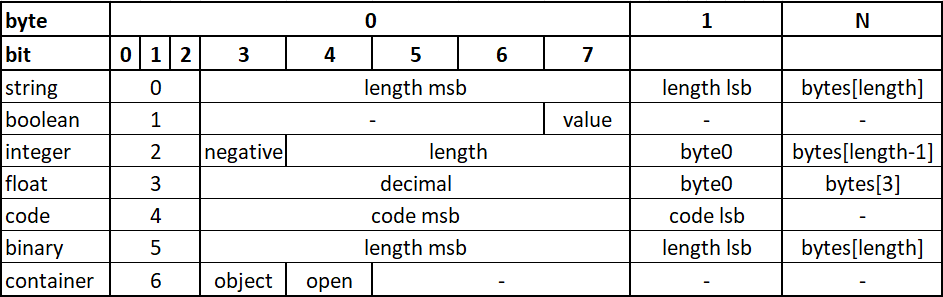
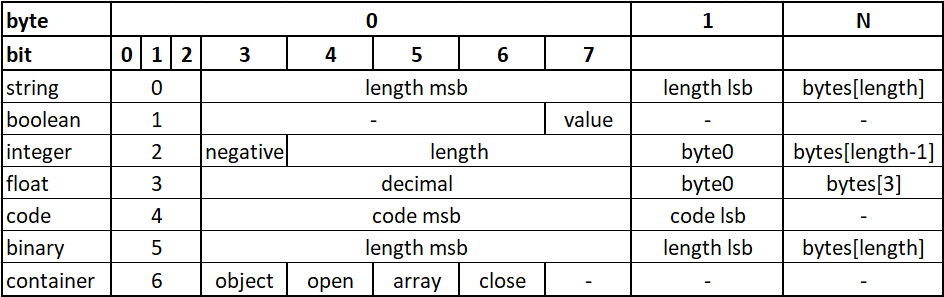
upd

diff --git a/BSON.h b/BSON.h
@@ -1,9 +1,8 @@
 #pragma once
-#include <Arduino.h>
 #include <GTL.h>
 #include <limits.h>
 
-#ifndef BSON_NO_TEXT
+#if defined(ARDUINO) && !defined(BSON_NO_TEXT)
 #include <StringUtils.h>
 #endif
 
@@ -19,15 +18,68 @@
 #define BS_CONTAINER (6 << 5)
 
 #define BS_CONT_OBJ (1 << 4)
-#define BS_CONT_ARR (0 << 4)
 #define BS_CONT_OPEN (1 << 3)
-#define BS_CONT_CLOSE (0 << 3)
+#define BS_CONT_ARR (1 << 2)
+#define BS_CONT_CLOSE (1 << 1)
 
 #define BS_NEGATIVE (1 << 4)
 
+// ============== helper ==============
 #define BS_LSB5(x) ((x) & 0b00011111)
 #define BS_MSB5(x) BS_LSB5((x) >> 8)
 #define BS_LSB(x) ((x) & 0xff)
+#define BS_UNPACK5(msb5, lsb) ((msb5 << 8) | lsb)
+
+#define _BSON_INTx(val, len) (BS_INTEGER | (val < 0 ? BS_NEGATIVE : 0) | len)
+#define _BSON_BYTEx(val, n) ((val < 0 ? -val : val) >> (n * 8)) & 0xff
+inline uint8_t _BSON_FLOATx(float v, uint8_t n) { return ((uint8_t*)&v)[n]; }
+
+#define _BS_STR_N1(str) str[0]
+#define _BS_STR_N2(str) _BS_STR_N1(str), str[1]
+#define _BS_STR_N3(str) _BS_STR_N2(str), str[2]
+#define _BS_STR_N4(str) _BS_STR_N3(str), str[3]
+#define _BS_STR_N5(str) _BS_STR_N4(str), str[4]
+#define _BS_STR_N6(str) _BS_STR_N5(str), str[5]
+#define _BS_STR_N7(str) _BS_STR_N6(str), str[6]
+#define _BS_STR_N8(str) _BS_STR_N7(str), str[7]
+#define _BS_STR_N9(str) _BS_STR_N8(str), str[8]
+#define _BS_STR_N10(str) _BS_STR_N9(str), str[9]
+#define _BS_STR_N11(str) _BS_STR_N10(str), str[10]
+#define _BS_STR_N12(str) _BS_STR_N11(str), str[11]
+#define _BS_STR_N13(str) _BS_STR_N12(str), str[12]
+#define _BS_STR_N14(str) _BS_STR_N13(str), str[13]
+#define _BS_STR_N15(str) _BS_STR_N14(str), str[14]
+#define _BS_STR_N16(str) _BS_STR_N15(str), str[15]
+#define _BS_STR_N17(str) _BS_STR_N16(str), str[16]
+#define _BS_STR_N18(str) _BS_STR_N17(str), str[17]
+#define _BS_STR_N19(str) _BS_STR_N18(str), str[18]
+#define _BS_STR_N20(str) _BS_STR_N19(str), str[19]
+#define _BS_STR_N21(str) _BS_STR_N20(str), str[20]
+#define _BS_STR_N22(str) _BS_STR_N21(str), str[21]
+#define _BS_STR_N23(str) _BS_STR_N22(str), str[22]
+#define _BS_STR_N24(str) _BS_STR_N23(str), str[23]
+#define _BS_STR_N25(str) _BS_STR_N24(str), str[24]
+#define _BS_STR_N26(str) _BS_STR_N25(str), str[25]
+#define _BS_STR_N27(str) _BS_STR_N26(str), str[26]
+#define _BS_STR_N28(str) _BS_STR_N27(str), str[27]
+#define _BS_STR_N29(str) _BS_STR_N28(str), str[28]
+#define _BS_STR_N30(str) _BS_STR_N29(str), str[29]
+#define _BS_STR_N31(str) _BS_STR_N30(str), str[30]
+#define _BS_STR_N32(str) _BS_STR_N31(str), str[31]
+#define _BS_STR_N33(str) _BS_STR_N32(str), str[32]
+
+// ============== STATIC ==============
+inline constexpr uint8_t BSON_CONT(char t) { return t == '{' ? (BS_CONTAINER | BS_CONT_OBJ | BS_CONT_OPEN) : (t == '}' ? (BS_CONTAINER | BS_CONT_OBJ | BS_CONT_CLOSE) : (t == '[' ? (BS_CONTAINER | BS_CONT_ARR | BS_CONT_OPEN) : (BS_CONTAINER | BS_CONT_ARR | BS_CONT_CLOSE))); }
+#define BSON_CODE(code) (BS_CODE | BS_MSB5((uint16_t)code)), BS_LSB((uint16_t)code)
+#define BSON_FLOAT(val) (BS_FLOAT | 4), _BSON_FLOATx(val, 0), _BSON_FLOATx(val, 1), _BSON_FLOATx(val, 2), _BSON_FLOATx(val, 3)
+#define BSON_INT8(val) _BSON_INTx(val, 1), _BSON_BYTEx(val, 0)
+#define BSON_INT16(val) _BSON_INTx(val, 2), _BSON_BYTEx(val, 0), _BSON_BYTEx(val, 1)
+#define BSON_INT24(val) _BSON_INTx(val, 3), _BSON_BYTEx(val, 0), _BSON_BYTEx(val, 1), _BSON_BYTEx(val, 2)
+#define BSON_INT32(val) _BSON_INTx(val, 4), _BSON_BYTEx(val, 0), _BSON_BYTEx(val, 1), _BSON_BYTEx(val, 2), _BSON_BYTEx(val, 3)
+#define BSON_INT64(val) _BSON_INTx(val, 8), _BSON_BYTEx(val, 0), _BSON_BYTEx(val, 1), _BSON_BYTEx(val, 2), _BSON_BYTEx(val, 3), _BSON_BYTEx(val, 4), _BSON_BYTEx(val, 5), _BSON_BYTEx(val, 6), _BSON_BYTEx(val, 7)
+#define BSON_BOOL(val) (BS_BOOLEAN | val)
+#define BSON_STR(str, len) BS_STRING | BS_MSB5(len), BS_LSB(len), _BS_STR_N##len(str)
+#define BSON_KEY(str, len) BSON_STR(str, len)
 
 // ============== class ==============
 class BSON : private gtl::stack<uint8_t> {
@@ -43,11 +95,111 @@ class BSON : private gtl::stack<uint8_t> {
     using ST::reserve;
     using ST::setOversize;
     using ST::write;
+    using ST::operator uint8_t*;
 
     // максимальная длина строк и бинарных данных
     static size_t maxDataLength() {
         return BS_MAX_LEN;
     }
+
+#ifdef ARDUINO
+    // вывести в Print как JSON
+    static void stringify(BSON& bson, Print& p, bool pretty = false) {
+        stringify(bson, bson.length(), p, pretty);
+    }
+
+    // вывести в Print как JSON
+    static void stringify(const uint8_t* bson, size_t len, Print& p, bool pretty = false) {
+        const uint8_t* end = bson + len;
+        gtl::stack<uint8_t> stack;
+        bool keyf = true;
+
+        auto isClose = [](const uint8_t* bson, const uint8_t* end) -> bool {
+            return bson != end && (*bson & (BS_CONTAINER | BS_CONT_CLOSE)) == (BS_CONTAINER | BS_CONT_CLOSE);
+        };
+
+        while (bson != end) {
+            uint8_t type = *bson & 0b11100000;
+            uint8_t data = *bson & 0b00011111;
+
+            if (pretty && keyf) {
+                bool close = isClose(bson, end);
+                if (close) p.println();
+                for (int i = 0; i < (int)stack.length() - close; i++) p.print("   ");
+            }
+
+            ++bson;
+
+            switch (type) {
+                case BS_CONTAINER:
+                    if (data & BS_CONT_OPEN) {
+                        char t = (data & BS_CONT_OBJ) ? '{' : '[';
+                        stack.push(t);
+                        p.print(t);
+                        if (pretty) p.println();
+                    } else {
+                        char t = (data & BS_CONT_OBJ) ? '}' : ']';
+                        p.print(t);
+                        if (bson != end && !(*bson & (BS_CONTAINER | BS_CONT_CLOSE))) pretty ? p.print(",\r\n") : p.print(',');
+                        stack.pop();
+                    }
+                    keyf = true;
+                    continue;
+
+                case BS_STRING: {
+                    uint16_t len = BS_UNPACK5(data, *bson++);
+                    p.print('"');
+                    while (len--) p.write(*bson++);
+                    p.print('"');
+                } break;
+
+                case BS_BOOLEAN:
+                    p.print((data & 0b1) ? "true" : "false");
+                    break;
+
+                case BS_INTEGER: {
+                    if (data & BS_NEGATIVE) p.print('-');
+                    uint16_t len = data & 0b1111;
+                    uint32_t v = 0;
+                    for (uint8_t i = 0; i < len; i++) {
+                        ((uint8_t*)&v)[i] = *bson++;
+                    }
+                    p.print(v);
+                } break;
+
+                case BS_FLOAT: {
+                    float v;
+                    memcpy(&v, bson, 4);
+                    bson += 4;
+                    p.print(v, data);
+                } break;
+
+                case BS_CODE:
+                    p.print("\"#");
+                    p.print(BS_UNPACK5(data, *bson++));
+                    p.print('"');
+                    break;
+
+                case BS_BINARY: {
+                    uint16_t len = BS_UNPACK5(data, *bson++);
+                    bson += len;
+                    p.print("\"<bin:");
+                    p.print(len);
+                    p.print(">\"");
+                } break;
+            }
+
+            if (stack.last() == '{') {
+                if (keyf) p.print(':');
+                else if (!isClose(bson, end)) pretty ? p.print(",\r\n") : p.print(',');
+                keyf ^= 1;
+            } else {
+                if (!isClose(bson, end)) pretty ? p.print(",\r\n") : p.print(',');
+            }
+        }
+        p.println();
+    }
+#endif
 
     // размер числа в байтах
     static uint8_t uint32Size(uint8_t* p) {
@@ -183,12 +335,15 @@ class BSON : private gtl::stack<uint8_t> {
     BSON& add(const char* str) {
         return add(str, strlen(str), false);
     }
+
+#ifdef ARDUINO
     BSON& add(const String& str) {
         return add(str.c_str(), str.length(), false);
     }
     BSON& add(const __FlashStringHelper* str) {
         return add((const char*)str, strlen_P((PGM_P)str), true);
     }
+#endif
 
 #define BSON_MAKE_ADD_STR(T)                   \
     inline void operator=(T val) { add(val); } \
@@ -196,10 +351,12 @@ class BSON : private gtl::stack<uint8_t> {
 
     BSON_MAKE_ADD_STR(char*)
     BSON_MAKE_ADD_STR(const char*)
+#ifdef ARDUINO
     BSON_MAKE_ADD_STR(const String&)
     BSON_MAKE_ADD_STR(const __FlashStringHelper*)
+#endif
 
-#ifndef BSON_NO_TEXT
+#if defined(ARDUINO) && !defined(BSON_NO_TEXT)
     BSON& add(const Text& str) {
         return add(str.str(), str.length(), str.pgm());
     }
@@ -207,10 +364,11 @@ class BSON : private gtl::stack<uint8_t> {
     inline void operator+=(const Text& str) { add(str); }
 #endif
 
+#ifdef ARDUINO
     BSON& add(const StringSumHelper&) = delete;
     inline void operator=(const StringSumHelper&) = delete;
     inline void operator+=(const StringSumHelper&) = delete;
-
+#endif
     // ============== val bin ==============
     bool beginBin(uint16_t size) {
         if (size > BS_MAX_LEN) return false;

diff --git a/README.md b/README.md
@@ -83,15 +83,35 @@ void clear();
 // переместить в другой объект
 void move(BSON& bson);
 
+// STATIC
+
 // максимальная длина строк и бинарных данных
 static size_t maxDataLength();
 
-// как Text
-Text toText();
-operator Text();
+// вывести в Print как JSON
+static void stringify(BSON& bson, Print& p, bool pretty = false);
+
+// вывести в Print как JSON
+static void stringify(const uint8_t* bson, size_t len, Print& p, bool pretty = false);
 ```
 
-### Пример
+### Статическая сборка
+```cpp
+BSON_CONT(char t)   // контейнер '{', '}', '[', ']'
+BSON_CODE(code)     // код
+BSON_FLOAT(val)     // float
+BSON_INT8(val)      // int8
+BSON_INT16(val)     // int16
+BSON_INT24(val)     // int24
+BSON_INT32(val)     // int32
+BSON_INT64(val)     // int64
+BSON_BOOL(val)      // bool
+BSON_STR(str, len)  // "string" + длина
+BSON_KEY(str, len)  // "string" + длина
+```
+
+## Пример
+### Динамическая сборка
 ```cpp
 enum class Const {
     some,
@@ -132,6 +152,34 @@ if (b["arr"]('[')) {
 }
 
 b('}');
+```
+
+### Статическая сборка
+```cpp
+uint8_t bson[] = {
+    BSON_CONT('{'),
+    BSON_KEY("str", 3),
+    BSON_STR("hello", 5),
+
+    BSON_KEY("int", 3),
+    BSON_INT16(12345),
+
+    BSON_KEY("arr", 3),
+    BSON_CONT('['),
+    BSON_STR("string", 6),
+    BSON_CODE(12),
+    BSON_INT8(123),
+    BSON_INT8(-123),
+    BSON_INT16(12345),
+    BSON_INT16(-12345),
+    BSON_INT32(12345678),
+    BSON_INT32(-12345678),
+    // BSON_FLOAT(3.1415),
+    BSON_BOOL(true),
+    BSON_CONT(']'),
+
+    BSON_CONT('}'),
+};
 ```
 
 ### Распаковка
